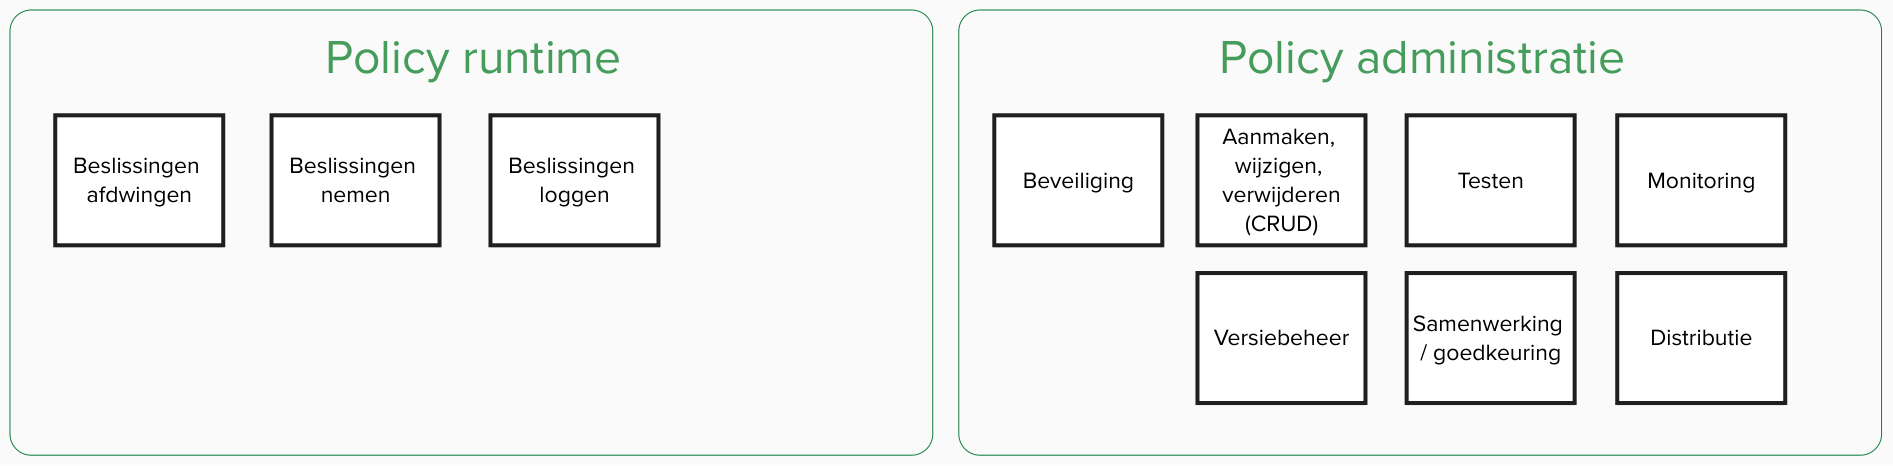
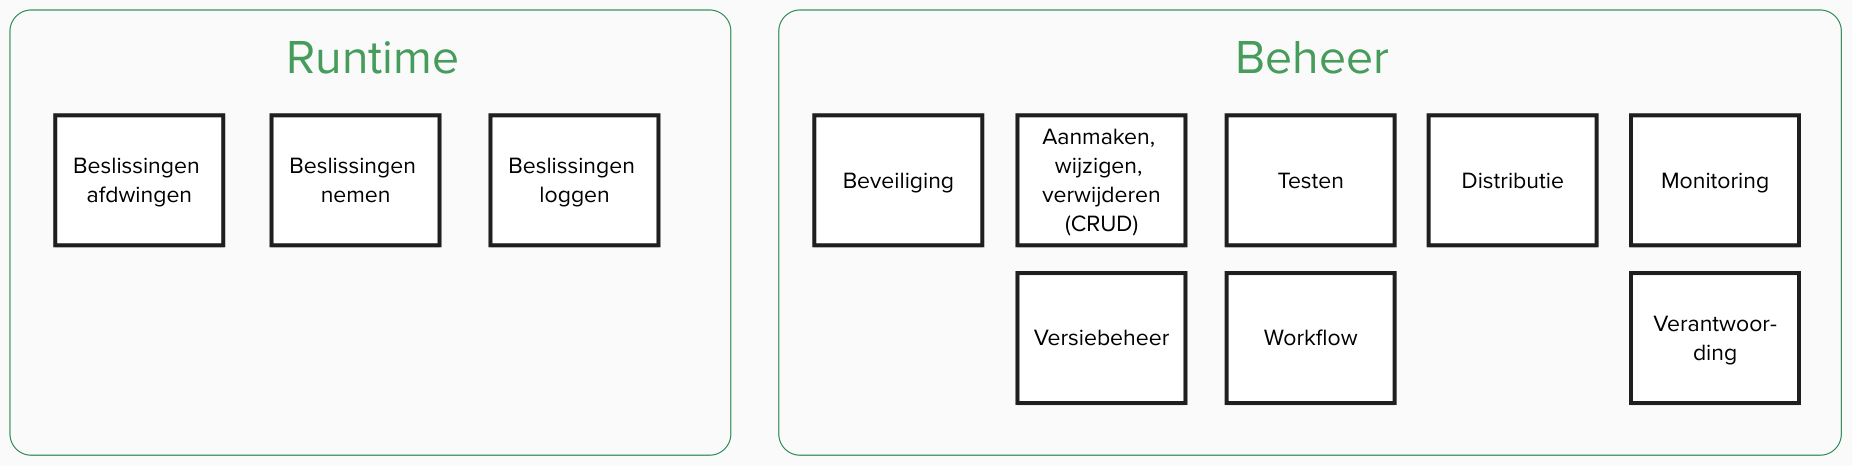
Verdere functionele beschrijvnig

diff --git a/content/docs/1.methodiek/2.functioneel.md b/content/docs/1.methodiek/2.functioneel.md
@@ -5,22 +5,47 @@ weight: 20
 
 # Functioneel
 
-Allereerst beschrijven we toegangsverlening vanuit functioneel perspectief: welke functies zijn er nodig om tot een
-complete oplossing te komen? Hieronder een indeling:
+Allereerst beschrijven we toegangsverlening vanuit functioneel perspectief: welke taken en functies moeten ingevuld worden
+om tot een complete toegangsoplossing te komen? 
+
+Hieronder een indeling:
 
 ![Functioneel](/ftv/images/functioneel.png)
 
 De functies zijn verdeeld in twee groepen.
 
-## 1. Policy runtime
+## 1. Runtime
 
-Dit is de set van functies die er nodig zijn om regels toe te passen. 
+De set van functies die er nodig zijn om regels toe te passen.
 
-- **Beslissingen afdwingen**. Het zorgen dat genomen beslissingen ook gegarandeerd nageleefd worden. Komt overeen met het Engelse 'enforcement'.
-- **Beslissingen nemen**. Op basis van alle informatie (subject, action, resource en context) en de beschikbare regels uitrekenen of het verzoek
-gehonoreerd, voorwaardelijk gehonoreerd of afgewezen moet worden. Engels 'decision'.
-- **Beslissingen loggen**.
+- **Beslissingen afdwingen**. Het zorgen dat genomen beslissingen ook gegarandeerd nageleefd worden. 
+- **Beslissingen nemen**. Op basis van alle [informatie](../1.definities#toegangsverlening) (subject, action, resource en context) en de beschikbare regels uitrekenen of het verzoek
+gehonoreerd, voorwaardelijk gehonoreerd of afgewezen moet worden. 
+- **Beslissingen loggen**. Vastleggen welke beslissingen genomen zijn, op een zodanige wijze dat de informatie later beschikbaar is voor verantwoording. Hierbij is het belangrijk
+dat er genoeg informatie is om de juistheid van beslissingen te controleren, en niet meer.
 
-## 2. Policy beheer
+Deze functies worden heel vaak aangeroepen: bij elk verwerkingsverzoek. Daarom moeten deze snel afgehandeld kunnen worden.
 
-TODO
+## 2. Beheer
+
+De beheersfuncties zijn voor het opstellen en onderhouden van regels. Dit zijn ze:
+
+- **Beveiliging**. Het beheer van toegangsregels heeft ook zijn eigen toegangsbeveiliging nodig. 
+Daarvoor is een gedeeld of apart IAM systeem nodig, inclusief rollen, rechten en policies, waarmee beheerderstoegang beheerd kan worden.
+- **Regels opstellen**. Het maken, aanpassen en verwijderen van regels. Dit kan een eigen editor, afgestemd op de policytaal, met veel hulpmiddelen zijn, 
+of juist heel basaal alleen een manier om bestanden aan te nemen.
+- **Versiebeheer**. Door de historie van regels op te slaan wordt het mogelijk achteraf te zien welke regels wanneer golden, 
+en kunnen wijzigingen ook teruggedraaid worden.
+- **Testen**. Opstellen van regels is in alle talen best lastig. Bovendien is het overzien van de gevolgen van aanpassingen op
+de hele set regels handmatig meestal niet te doen. Daarom is het nodig een testfaciliteit te hebben, waar een regelset tegen een dataset gehouden
+kan worden en duidelijk gemaakt wordt wat de gevolgen van wijzigingen zullen zijn op beslissingen.
+- **Workflow**. Voor goed beheer is een vorm van workflow / samenwerking nodig waarin meerdere mensen rollen als schrijven, testen en goedkeuren 
+van regels kunnen vervullen.
+- **Distributie**. Regels worden vaak centraal beheerd, door een team dat daar speciaal voor is ingericht. De uitvoering van de regels
+gebeurt decentraal, geautomatiseerd. Een distributiemechanisme is nodig om de juiste regels over te brengen naar de juiste systemen.
+- **Monitoring**. Voor goed beheer is het nodig om zich te hebben hoe toegang in productie functioneert. Dat gaat over of de verschillende
+runtime omgevingen uberhaupt draaien, en ook statistieken over het aantal aanvragen en beslissingen. Hiermee kan in de gaten gehouden
+worden of er bijvoorbeeld ineens onverwacht grote aantallen aanvragen binnenkomen, of veel afwijzingen. Dit kunnen tekenen zijn dat
+er pogingen tot ongeoorloofde toegang zijn geweest.
+- **Verantwoording**. In gevallen van vermoede fraude, of als deel van een reguliere audit, moet het systeem de mogelijkheid bieden om
+alle relevante informatie over een individuele toegangsbeslissing of een hele reeks beslissing te geven. 

diff --git a/content/docs/1.methodiek/1.definities.md b/content/docs/1.methodiek/1.definities.md
@@ -8,7 +8,7 @@ weight: 10
 Voordat we verder gaan is het goed vast te stellen wat precies het onderwerp is;
 wat is het waar we een standaardwerkwijze voor zoeken?
 
-## 1. Toegangsverlening
+## 1. <a name="Toegangsverlening"></a>Toegangsverlening
 
 Toegangsverlening, ook wel autorisatie, is in beginsel de vraag of iemand een handeling mag uitvoeren op iets.
 De gangbare IT-terminologie hierbij is 'subject' voor 'iemand', 'actie' voor 'handeling' en 'resource' voor 'iets'.
